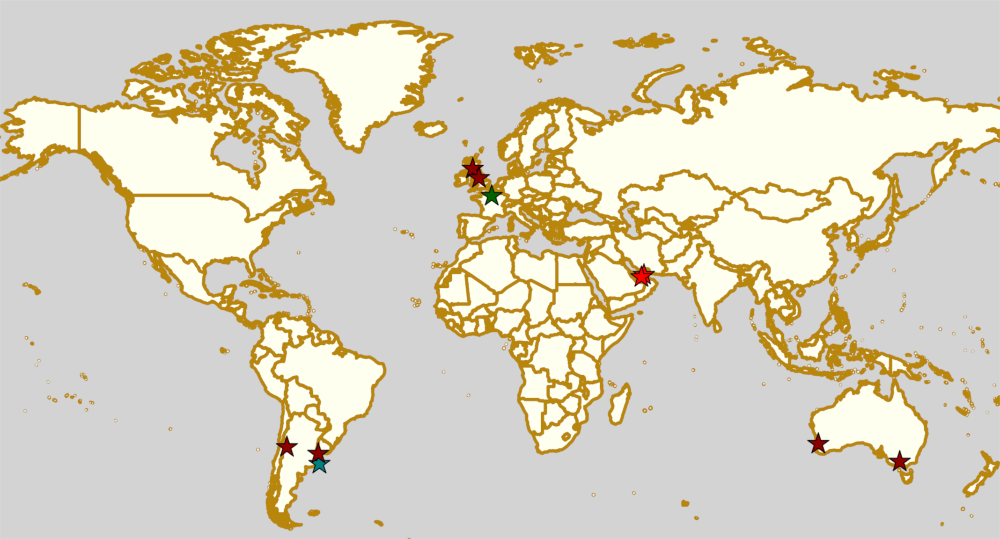
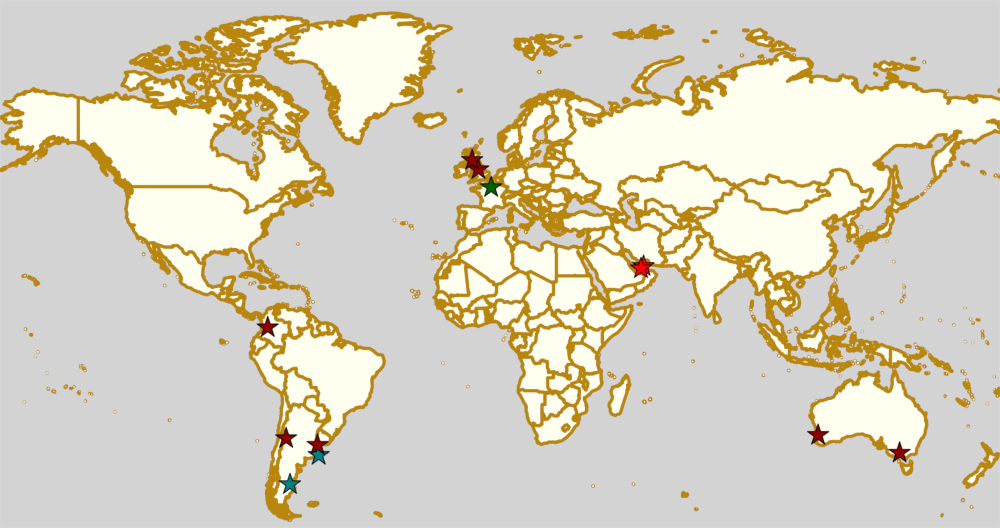
Update 17 Aug highlights with Olivia Savalje and Violet Attack events

diff --git a/posts/highlights/2019/wknd-17Aug2019.rst b/posts/highlights/2019/wknd-17Aug2019.rst
@@ -205,6 +205,22 @@ Event starts: 1200 Monday
 
 Venue: 135 69 Y 70 Club Estrella del Sur, La Plata, Buenos Aires, Argentina
 
+Sat-Sun: Caleta Olivia, Argentina
+--------------------------------
+
+`[FACEBOOK LINK (flyer)]`__
+
+.. __: https://www.facebook.com/OliviaSalvajeRollerDerby/photos/a.949169648460052/2420902694620066/?type=3
+
+`Olivia Salvaje Roller Derby`_ host an exciting bootcamp, run by Maki Lombera (2x4 Roller Derby, Selección Argentina). Attending are representatives from across Patagonia, including Roller Derby Rio Gellegos, Kalakas Roller Derby, FENIX Roller Derby, Comodoro Roller Derby,
+Vendaval Roller Derby and Puerto Madryn Roller Derby.
+
+.. _Olivia Salvaje Roller Derby: https://www.instagram.com/oliviasalvaje.rollerderby/
+
+Event starts: To be Announced.
+
+Venue: Colegio n36, Caleta Olivia, Santa Cruz, Argentina
+
 Sat-Sun: Mendoza, Argentina
 --------------------------------
 
@@ -235,7 +251,23 @@ Event starts: 0900 Saturday
 
 Venue: Escuela Capitan Manzotti, 5539 Las Heras, Mendoza, Argentina
 
+Sun: Ibagué, Colombia
+--------------------------------
 
+`[FACEBOOK LINK (flyer)]`__
+
+.. __: https://www.facebook.com/photo.php?fbid=1262533593910134&set=a.115202988643206&type=3
+
+
+`Violet Attack Roller Derby`_ host the Combativas Revoltosas from Bogotá for a friendly game.
+
+.. _Violet Attack Roller Derby:
+
+- Violet Attack Roller Derby (Ibagué) versus Combativas Revoltosas (Bogotá)
+
+Event starts: 0900 Sunday
+
+Venue: Coliseo Cubierto Coopemtol Sede Salado, Ibagué, Colombia
 
 ..
   Sat-Sun:
